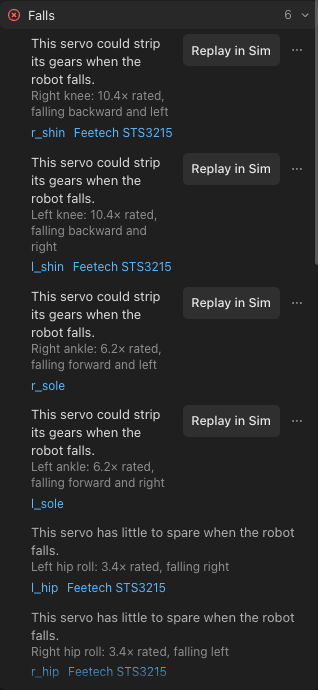
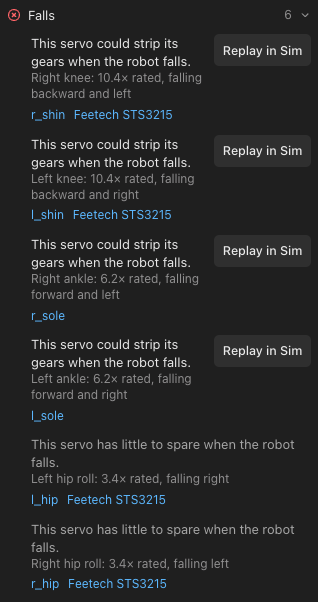
Recapture three help screenshots that still showed the row ⋯ button
The review found three help screenshots that still showed the ⋯ button
this pull request removes from Build findings. They were
checks-rolled-back.png in calibrate-an-emulated-robot, falls.png in
check-what-a-fall-does-to-the-servos and misfit.png in try-a-case. Each is
recaptured from the same scene, so blocker and note rows show only their
fix button.

Section 11 now says a Case's note has the Finding menu. The Case's own row
in Checks has no right-click menu.

The four help articles that cover FindingRow.tsx, JointRow.tsx and the
Build guide were read against the new code. Their steps, labels and
screenshots still hold, so they are unchanged.

diff --git a/site/content/help/calibrate-an-emulated-robot.md b/site/content/help/calibrate-an-emulated-robot.md
@@ -45,11 +45,15 @@ covers:
   - src/utils/engineeringSimModel.ts
 ---
 
-When you calibrate a robot, Basecase uses a camera to find each joint's zero and direction, then fits a model to each emulated servo. After that, simulation and training move the way your servos do.
+Calibrating a robot makes simulation and training move the way your servos do. Basecase uses a camera to find each joint's zero and direction, then fits a model to each emulated servo.
 
 Calibration works on the emulated robot and hasn't logged a real servo. Basecase fits each joint against the servo and variant it uses, and the emulated servo stands in for that part.
 
-The STS3215 C001 and XL330 start from a measured catalog model. Every other Feetech and Dynamixel servo starts from an estimate, scaled from its stall torque, speed and volts. PWM servos such as the DS3218 can't answer on the bus, so Calibrate skips them and their rows read **No reply**.
+The STS3215 C001 and XL330 start from a measured catalog model. Every other Feetech and Dynamixel servo starts from an estimate, scaled from its stall torque, speed and volts.
+
+**Note:** PWM servos such as the DS3218 can't answer on the bus. Calibrate skips them, and their rows read **No reply**.
+
+To calibrate a robot:
 
 1. Connect the emulated robot from the scene you want to calibrate. For steps, see [Connect an emulated robot](/help/connect-an-emulated-robot).
 2. Under **Ladder**, click **Set Up**.
@@ -58,13 +62,13 @@ The STS3215 C001 and XL330 start from a measured catalog model. Every other Feet
 
 ![Operate in Test, with Calibrate Servos above the emulated servos](/help/calibrate-an-emulated-robot/test.png)
 
-Basecase first wiggles each joint whose zero and direction it has never found. Each joint moves on its own for about 4 seconds while a camera watches it, and Basecase writes what it finds to the robot.
+First, Basecase wiggles each joint whose zero and direction it has never found. Each joint moves on its own for about 4 seconds while a camera watches, and Basecase writes what it finds to the robot.
 
 ![The Shoulder wiggling in Operate while Calibrate Servos watches it, with the measured robot drawn in blue](/help/calibrate-an-emulated-robot/wiggle.png)
 
 Next, all the joints move together through a slow bench sequence for about 18 seconds. Then Basecase fits each servo, one joint at a time.
 
-5. Read each joint's row under **Emulated servos**. The row shows the joint's name, bus ID, position and temperature. **Measured** beside the name means the simulation now runs on the fit, and the version in use appears under the name, after any other verdict.
+5. Read each joint's row under **Emulated servos**. The row shows the joint's name, bus ID, position and temperature. **Measured** beside the name means the simulation now runs on the fit. The version in use appears under the name, after any other verdict.
 
 The **Pose** tab marks the same joints **Measured**.
 
@@ -83,7 +87,9 @@ The light line shows what the servo did. The gray line is the simulation on the 
 
 To see what an older version would do before you roll back, choose it in the same menu. Basecase redraws the blue line for that version.
 
-You can also find **Calibrate Servos** in [[⌘K]]. It appears there only in **Test** with the motors running, and only in the scene you connected the robot from. Once a scene has calibrations, Operate lists its joints with their verdicts before you connect.
+You can also find **Calibrate Servos** in [[⌘K]]. It appears there only in **Test** with the motors running, and only in the scene you connected the robot from.
+
+Once a scene has calibrations, Operate lists its joints with their verdicts before you connect.
 
 ## Verdicts
 
@@ -99,27 +105,34 @@ A joint with no version in use shows **Preset**. **Roll Back** steps back one me
 
 A joint's zero is the servo reading where the joint sits at 0°. Its direction says which way the reading grows.
 
-Both can be off in ways the servo can't report. For example, a horn pressed on one tooth off on a 25-tooth spline sits 14.4° from the joint's 0°. A servo mounted reversed turns the joint the wrong way while its own reading agrees, so the bench sequence can't catch it.
+Both can be off in ways the servo can't report. For example:
 
-While a joint wiggles, it steps 0.1 rad one way, then 0.1 rad the other way, and back. Basecase draws the robot's outline from your CAD for both directions and for every zero within 20°, then keeps the one that matches the camera. It checks the joints nearest the base first.
+- A horn pressed on one tooth off on a 25-tooth spline sits 14.4° from the joint's 0°.
+- A servo mounted reversed turns the joint the wrong way while its own reading agrees. The bench sequence can't catch this.
 
-- When a joint's zero changes, Basecase saves it as a new version, marked **Measured**, before the bench sequence starts. The robot stops, then starts **Test** again on the new zero.
+While a joint wiggles, it steps 0.1 rad one way, then 0.1 rad the other way, and back. Basecase draws the robot's outline from your CAD for both directions and for every zero within 20°, then keeps the one that matches the camera. It starts with the joints nearest the base.
+
+- If a joint's zero changes, Basecase saves it as a new version, marked **Measured**, before the bench sequence starts. The robot stops, then starts **Test** again on the new zero.
 - If a joint's zero already matches the camera, Basecase records nothing for it.
 - If the camera can't see a joint move, the joint reads **Can’t tell** and keeps its zero. This happens with a joint hidden behind the robot's body, or a round wrist rolling on its own axis.
 
-The camera is your scene's first camera view. If you haven't placed one, Basecase uses the framed scene. The emulated robot has no camera plugged in, so Basecase draws that view at the servos' true angles. It also gives each emulated servo its own hidden offset, and mounts some of them reversed.
+The camera is your scene's first camera view. If you haven't placed one, Basecase uses the framed scene.
+
+The emulated robot has no camera plugged in, so Basecase draws that view at the servos' true angles. It also gives each emulated servo its own hidden offset, and mounts some of them reversed.
 
 **Roll Back** undoes a zero the same way it undoes any fit, and Basecase updates the robot's calibration to match. If you roll a joint back past its first zero, it returns to the default.
 
 ## What the bench sequence does
 
-The bench sequence ramps every joint 0.25 rad each way at 0.12 rad/s, holding for 0.6 s at each end, for 9 seconds. Then it swings each joint through a 0.15 rad wave at 0.12 Hz for 9 more seconds.
+For the first 9 seconds, the bench sequence ramps every joint 0.25 rad each way at 0.12 rad/s and holds for 0.6 s at each end. For the next 9 seconds, it swings each joint through a 0.15 rad wave at 0.12 Hz.
 
 The sequence is slow because Test caps each joint at 0.5 rad/s. If the servo couldn't follow a move, the joint would read **Can’t tell**.
 
-Basecase fits the first half of each recording, then checks the fit against the second half. It fits the servo's gain, delay, damping, inertia, friction and torque limit, and keeps each value between a quarter and 4 times its starting value, or up to 8 times for the delay. In a run with three emulated STS3215 servos, all three read **Measured**, and each fit was 7 to 10% closer than the catalog model.
+Basecase fits the first half of each recording, then checks the fit against the second half. It fits the servo's gain, delay, damping, inertia, friction and torque limit. Each value stays between a quarter and 4 times its starting value, or up to 8 times for the delay.
 
-If the robot leaves **Test** or faults during the run, Basecase records nothing. A message under the servo count tells you why.
+In a run with three emulated STS3215 servos, all three read **Measured**, and each fit was 7 to 10% closer than the catalog model.
+
+If the robot leaves **Test** or faults during the run, Basecase records nothing, and a message under the servo count tells you why.
 
 Replays use the latest bench run, which Basecase keeps until it reloads. After a reload, the verdicts and versions stay, and the replays come back the next time you run **Calibrate Servos**.
 

diff --git a/site/content/help/get-a-robot-ready-to-build.md b/site/content/help/get-a-robot-ready-to-build.md
@@ -36,49 +36,47 @@ covers:
   - src/three/viewport/checkDots.ts
 ---
 
-Before you print, buy and put together a robot, clear every problem the Build tab finds.
+The Build tab lists the problems in your robot. Clear every one before you print the parts, buy them, and put the robot together.
 
 1. Click **Build** at the top of the right panel.
-2. Look at the **Checks** header. It reads **Ready to build**, or shows how many problems are left, such as **3 to fix**.
+2. Look at the **Checks** header. It reads **Ready to build**, or it gives the number of problems left, such as **3 to fix**.
 3. Click a check with a red mark to open it.
-4. Under a problem, click a part's name to select that part on the canvas.
+4. Click a part's name under a problem to select that part on the canvas.
 5. Click **Fix** to have the agent fix the problem, or change the part yourself. Two checks work differently:
    - On **Strength**, **Fix** prints the part on its strongest face.
    - On **Falls**, **Replay in Sim** plays that joint's worst fall in the simulation.
-6. If the robot runs on a power supply instead of a battery, open **Servo voltage** and enter the supply's volts in **V**.
+6. If the robot runs on a power supply rather than a battery, open **Servo voltage** and enter the supply's volts in **V**.
 7. Open **Supply current** and enter the power supply's amps in **A**.
-8. Open **Current and runtime** to see how long the battery lasts, for example **about 2 h 08 min**. Once the agent runs the trained walk policy in the simulator, the section shows the average and peak amps from that walk and the joint that draws the most. Until then, and after you change the design, the runtime shows **(estimate)**.
-9. If the robot is an arm fixed in place, click **Payload** to see how much its hand holds at full reach and close in. While **Payload** is open, the canvas puts a dot at each spot the hand reaches, bluer where the hand lifts more.
-10. If the scene has Cases, **Checks** lists each one under its own name, with how many of its 20 runs passed. Click a Case to open it in Simulate.
+8. Open **Current and runtime** to see how long the battery lasts, for example **about 2 h 08 min**. Once the agent has run the trained walk policy in the simulator, this section shows the average and peak amps from that walk and names the joint that draws the most. The runtime shows **(estimate)** before that run and after each design change.
+9. If the robot is an arm fixed in place, click **Payload** to see how much its hand can hold at full reach and close in. While **Payload** is open, the canvas puts a dot on each spot the hand can reach, bluer where the hand lifts more.
+10. If the scene has Cases, **Checks** lists each one under its own name, with the number of its 20 runs that passed. Click a Case to open it in Simulate.
 11. Wait for the header to read **Ready to build**. Basecase reruns the checks after each change you make.
 
 ![The Build tab with every check passed and a $150 budget beside the total](/help/get-a-robot-ready-to-build/build-tab.png)
 
 ![An SO-101 arm inside a cloud of dots, with Payload open in Checks reading 1.26 kg at full reach, 1.88 kg close in](/help/get-a-robot-ready-to-build/payload.png)
 
-**Show Build** and **Run Checks** are in [[⌘K]] too.
+**Show Build** and **Run Checks** are also in [[⌘K]].
 
-The settings for this tab are in **Settings** ▸ **Build**. To open them, press [[⌘,]] or choose **Build Settings** in [[⌘K]]. There you set:
+Press [[⌘,]] or choose **Build Settings** in [[⌘K]] to open this tab's settings in **Settings** ▸ **Build**. From there you can:
 
-- Whether the agent fixes new blockers
-- Which currency prices show in
-- Whether the build guide updates on its own
+- Choose whether the agent fixes new blockers
+- Choose the currency for prices
+- Choose whether the build guide updates on its own
 
 ![**Settings** ▸ **Build** with Checks, Prices and Build guide](/help/get-a-robot-ready-to-build/build-settings.png)
 
-To set a problem aside, right-click its row and choose **Ignore**. To set aside every problem of that kind, choose **Ignore All ⟨kind⟩** below it. In that menu item, ⟨kind⟩ is the name of the problem's kind. **Ignored** lists everything you set aside. **Restore** brings a problem back.
+To set a problem aside, right-click its row and choose **Ignore**. To set aside every problem of that kind, choose **Ignore All ⟨kind⟩** below it. The menu shows the kind's name in place of ⟨kind⟩. Everything you set aside appears under **Ignored**, and **Restore** brings a problem back.
 
 ## Cases in Checks
 
-Checks runs each Case 20 times. Each run nudges friction, weight, servo strength and servo delay, and starts a box or anything else that moves up to 15 mm from its spot in the scene. A Case's color shows how many runs passed: green for 18 of 20 or more, amber for 10 to 17, and red for below 10.
+Checks runs each Case 20 times. Each run nudges friction, weight, servo strength, and servo delay, and starts a box, or anything else that moves, up to 15 mm from where it sits in the scene. A Case's color gives the share of runs that passed: green for 18 of 20 or more, amber for 10 to 17, and red for fewer than 10. Under each Case, Checks names its most common failure, such as Fell or Missed.
 
-Under each Case, Checks shows its most common failure, such as Fell or Missed.
+A Case with a skill you kept through **Train from Tries** runs that skill in place of its scripted motion. See [Train a policy from your tries](/help/train-a-policy-from-your-tries).
 
-If a Case has a skill you kept with **Train from Tries**, the Case runs that skill instead of its scripted motion. See [Train a policy from your tries](/help/train-a-policy-from-your-tries).
+A Case the robot can't run gets a red row naming the first thing in the way, such as driven wheels the Case needs or a fall on hold. [Try a Case](/help/try-a-case) lists every reason. If the robot lacks what the Case needs, the note on the row has **New Case**.
 
-If the robot can't run a Case, the Case gets a red row naming the first thing stopping it, such as driven wheels the Case needs or a fall on hold. [Try a Case](/help/try-a-case) lists every reason. If the robot is missing what the Case needs, the row's note offers **New Case**.
-
-Cases don't count toward Ready to build, and you can ignore one with a right-click like any other note. Checks reruns a Case only when the robot or the Case changes. To have the agent change the robot until a red or amber Case passes, see [Make a Case pass with the agent](/help/make-a-case-pass-with-the-agent).
+Cases don't count toward Ready to build. Right-click one to ignore it, as you would any other note. Checks skips rerunning a Case until the robot or the Case changes. To have the agent change the robot until a red or amber Case passes, see [Make a Case pass with the agent](/help/make-a-case-pass-with-the-agent).
 
 ![Checks on a rover with Reach a Spot passing 20 of 20](/help/get-a-robot-ready-to-build/cases-in-checks.png)
 
@@ -86,6 +84,6 @@ Cases don't count toward Ready to build, and you can ignore one with a right-cli
 
 ![Reach a Spot open in Simulate after clicking its row, with a green check beside its name](/help/get-a-robot-ready-to-build/case-in-simulate.png)
 
-In Simulate, the icon beside a Case's name shows the status of its row. Click the icon to go back to the row.
+In Simulate, the icon beside a Case's name shows the status of its row in Checks. Click the icon to return to that row.
 
-To learn why each check exists, see [The path from design to build](/help/from-design-to-build). Next, [price the parts and set a budget](/help/price-the-parts-and-set-a-budget).
+[The path from design to build](/help/from-design-to-build) explains why each check exists. Next, [price the parts and set a budget](/help/price-the-parts-and-set-a-budget).

diff --git a/site/content/help/checks-and-blockers.md b/site/content/help/checks-and-blockers.md
@@ -30,36 +30,38 @@ covers:
   - src/components/settings/BuildPane.tsx
 ---
 
-Only the Checks in the Build tab decide whether a design is ready to build. They measure the scene itself, and what anyone says about the design doesn't change the result.
+The Checks in the Build tab decide whether a design is ready to build. They measure the scene itself, so a claim about the design doesn't change the result.
 
 ![The Checks list for a single cube, every check green and Ready to build in the header](/help/get-a-robot-ready-to-build/build-tab.png)
 
 ## Where the verdict comes from
 
-Checks run automatically about 1.5 seconds after your last change. While they run, the header reads **Checking…**. When they finish, it reads **Ready to build** or shows how many problems you have left to fix.
+Checks run on their own about 1.5 seconds after your last change. The header reads **Checking…** as they run, then **Ready to build** or the number of problems left to fix.
 
-Basecase does the heavy measuring in the background, so you can keep working. On a 225-part robot, the verdict arrives about 5 seconds after the edit.
+The heavy measuring runs in the background, so you can keep working. On a 225-part robot, you get the verdict about 5 seconds after an edit.
 
-Every problem is either a **blocker** or a **note**. One blocker is enough to keep a design from being ready. A note turns a check amber and tells you something about the build, such as the order the screws go in. Notes never change the verdict.
+Each problem is either a **blocker** or a **note**. One blocker is enough to keep a design from being ready. A note turns its check amber and tells you something about the build, like the order the screws go in, but it doesn't change the verdict.
 
-If a check stops on an error or runs out of time, it counts as a blocker. The header won't keep showing an old “Ready to build” while a check is unfinished.
+A check that stops on an error or runs out of time counts as a blocker. The header won't show an old “Ready to build” while a check is unfinished.
 
 ## Why the agent's word doesn't count
 
-Nothing the agent writes changes the verdict. If it tells you a servo is strong enough, Servo torque still measures the load at a 30° crouch.
+If the agent tells you a servo is strong enough, Servo torque goes on measuring the load at a 30° crouch.
 
-The agent sees the same problems you do, and it hears about new blockers after each change. To have it try to fix them, turn on **Have the agent fix new blockers** in **Settings** ▸ **Build**. It makes up to 2 follow-ups per message. Each follow-up reads like "Fix what the last change added: 2 problems.", with the problems quoted from **Checks**. If the agent thinks a check is wrong, it can dispute it. Its reason appears on the row, and the blocker still counts.
+The agent sees the same problems you do, and it hears about any new blockers after each change. To have it try to fix them, turn on **Have the agent fix new blockers** in **Settings** ▸ **Build**. The agent makes up to 2 follow-ups per message. Each one reads like "Fix what the last change added: 2 problems.", with the problems quoted from **Checks**.
+
+If the agent thinks a check is wrong, it can dispute it. Its reason shows on the row, and the blocker keeps counting.
 
 ## Only you can set a blocker aside
 
-To drop a single problem, right-click its row and choose **Ignore**. To drop every problem of that kind, choose **Ignore All ⟨kind⟩**, named after the kind of problem. This also covers problems on parts you haven't made yet.
+To set one problem aside, right-click its row and choose **Ignore**. To ignore every problem of that kind, including problems on parts you add later, choose **Ignore All ⟨kind⟩**, where ⟨kind⟩ is the name of the problem's kind.
 
-An ignored problem stays ignored when the parts change, because the decision was yours. The agent sees what you ignored and leaves it alone. Everything you've set aside is listed in **Ignored**, under the list, and you can put any of it back from there.
+An ignored problem stays ignored when the parts change, because you made that call. The agent sees what you ignored and leaves those problems alone. Everything you've set aside is in **Ignored**, below the list, and you can put any of it back from there.
 
 ## What Ready to build doesn't promise
 
 Checks measure the design as you modeled it. A strap or zip tie you'll add by hand isn't in the model, so its row is a note for you to check yourself.
 
-Range of motion samples each joint every 15°, so a clash thinner than one step can fall between samples. Peak torque waits for a trained walk policy, and Falls waits for the agent to tip the robot over. Prices are estimates until you add the ones you see, or a print service quotes the printed parts.
+Range of motion samples each joint every 15°, and a clash thinner than one step can fall between samples. Peak torque waits for a trained walk policy, and Falls waits for the agent to tip the robot over. Prices stay estimates until you add the prices you see or a print service quotes the printed parts.
 
-[Build tab checks](/help/build-checks) lists every check and what makes it fail.
+The full list of checks, with what makes each one fail, is in [Build tab checks](/help/build-checks).

diff --git a/site/content/help/troubleshoot-build-check-blocks-ready-to-build.md b/site/content/help/troubleshoot-build-check-blocks-ready-to-build.md
@@ -30,11 +30,11 @@ covers:
   - src/components/settings/BuildPane.tsx
 ---
 
-The Checks header shows Ready to build only when no check holds a blocker. Until then, it shows a count of what's left to fix.
+The Checks header shows Ready to build only when no check holds a blocker. Until then, it shows a count of what's left to fix. If your design isn't passing, find the case below that matches what you see.
 
 ## The header still shows a count after you edit
 
-At least one check still holds a blocker, often a check you haven't opened.
+At least one check still holds a blocker, often one you haven't opened.
 
 1. Click **Build** at the top of the right panel.
 2. Open the check at the top of **Checks**. Basecase lists the worst ones first.
@@ -46,7 +46,7 @@ You're done when the header reads **Ready to build** and the red dot on the **Bu
 
 ## “Some checks didn’t finish, so this answer isn’t complete.”
 
-A check hit its time limit or ran into an error and stopped. Basecase counts that as a blocker, so a design never passes on a run that didn't finish.
+A check stopped because it hit its time limit or ran into an error. Basecase counts that as a blocker, so a design never passes on a run that didn't finish.
 
 1. Press [[⌘K]] and choose **Run Checks**.
 2. If the message is still there, quit Basecase and open it again.
@@ -63,7 +63,7 @@ The estimated total is over your budget. Basecase counts lines marked ≈ at the
 3. Click a line's quantity, then type how many you already own in **On hand**. Parts you own cost nothing.
 4. Swap out expensive parts, or raise the budget in the field next to the total.
 
-Budget turns amber above 90% of the budget and red when the total goes over it. For the full steps, see [Price the parts and set a budget](/help/price-the-parts-and-set-a-budget).
+Budget turns amber above 90% of the budget, and red when the total goes over it. For the full steps, see [Price the parts and set a budget](/help/price-the-parts-and-set-a-budget).
 
 ## “This servo could strip its gears when the robot falls.”
 
@@ -77,7 +77,7 @@ You're done when **Falls** in Checks no longer shows a red mark.
 
 ## Servo bus is red
 
-Your build has at least one bus adapter, but none of them takes these servos' connector. You'd see this with DYNAMIXEL X servos on a Waveshare Bus Servo Adapter (A).
+Your build has at least one bus adapter, but none of them takes these servos' connector. For example, you'd see this with DYNAMIXEL X servos on a Waveshare Bus Servo Adapter (A).
 
 1. Open **Servo bus** in Checks. It names the adapter you need to add, for example **Add a JST EH 3-pin bus adapter for 2 servos.**
 2. Open **Parts** and place that adapter in the robot. For JST EH 3-pin, use the **ROBOTIS U2D2** or **ROBOTIS OpenRB-150**. For 5264 3-pin, use the **Waveshare Bus Servo Adapter (A)**.
@@ -86,18 +86,18 @@ You're done when **Servo bus** is no longer in the list.
 
 ## You know a blocker is wrong
 
-Checks see only what's modeled, so they miss things like a strap that holds a part. To ignore a blocker:
+Checks only see what's modeled, so they miss things like a strap that holds a part in place. To ignore a blocker:
 
 1. Right-click the problem's row.
 2. Choose **Ignore**.
 
 The problem moves to **Ignored**, below the list. To bring it back, click **Restore** there.
 
-Only you can ignore a blocker. The agent can tell you it disagrees, but it can't clear a blocker itself.
+**Note:** Only you can ignore a blocker. The agent can tell you it disagrees, but it can't clear a blocker itself.
 
 ## The agent keeps fixing new blockers on its own
 
-After each message, Basecase sends any new blockers to the agent, up to 2 times. In the chat, that reads "Fix what the last change added: 2 problems." over the problems. To turn this off:
+After each message, Basecase sends any new blockers to the agent, up to 2 times. In the chat, you'll see "Fix what the last change added: 2 problems." above the problems. To turn this off:
 
 1. Press [[⌘,]] and choose **Build**.
 2. Turn off **Have the agent fix new blockers**.

diff --git a/site/content/help/troubleshoot-emulated-robot.md b/site/content/help/troubleshoot-emulated-robot.md
@@ -27,11 +27,13 @@ covers:
   - hw/crates/robot-daemon/src/fault.rs
 ---
 
-Use the sections below if Connect is missing in Operate, the robot refuses a rung, a fault stops the motors, or Calibrate Servos doesn't show.
+Find the message or missing button you see in Operate below.
 
 ## Connect Emulated Robot is missing
 
-Operate shows "No robot" when the scene has no joint that moves. If the scene has more than 32 moving joints, Operate shows nothing to connect. Operate isn't available in the browser version of Basecase.
+If the scene has no joint that moves, Operate shows "No robot." If the scene has more than 32 moving joints, Operate shows nothing to connect.
+
+**Note:** Operate isn't available in the browser version of Basecase.
 
 To add a robot to the scene:
 
@@ -41,9 +43,9 @@ To add a robot to the scene:
 
 ## "Load a policy first"
 
-**Rehearse** and every rung above it need a trained policy. You see this message when the scene in front has no policy the robot can take.
+**Rehearse** and every rung above it need a trained policy. You'll see this message if the scene in front has no policy the robot can take.
 
-Basecase hands the robot the newest skill that's ready or the newest policy that's up to date. It skips:
+Basecase hands the robot the newest skill that's ready, or the newest policy that's up to date. It skips:
 
 - Policies marked **Out of date**. To fix one, see [Retrain an out-of-date policy](/help/retrain-an-out-of-date-policy).
 - Skills that replay an animation, because they have no policy to hand over.
@@ -56,7 +58,7 @@ To train a policy:
 
 ## "A fault is still active"
 
-The daemon shows "A fault is still active. Go back to Look and clear it first." when a fault has stopped the motors. The fault stays until you clear it.
+When a fault stops the motors, the daemon shows "A fault is still active. Go back to Look and clear it first." The fault stays until you clear it.
 
 1. Read the fault shown under the servo count, and fix the problem it names.
 2. Click **Look** under **Ladder**.
@@ -70,7 +72,7 @@ If the robot is an arm, you can click **Replay in Sim** under the fault to play 
 
 ## "The app stopped talking to the robot"
 
-The full message is "The app stopped talking to the robot, so the robot is holding still." It appears when the app misses its 100 ms check-in with the robot daemon, for example when the computer is under heavy load or goes to sleep.
+The full message is "The app stopped talking to the robot, so the robot is holding still." You'll see it when the app misses its 100 ms check-in with the robot daemon. This can happen when the computer is under heavy load or goes to sleep.
 
 1. Click **Look** under **Ladder**.
 2. If **Clear Fault** shows, click it.
@@ -79,7 +81,7 @@ The full message is "The app stopped talking to the robot, so the robot is holdi
 
 ## Calibrate Servos is missing
 
-**Calibrate Servos** appears in **Test** once "Motors running" shows. It appears only in the scene you connected the robot from.
+**Calibrate Servos** appears in **Test** once "Motors running" shows, and only in the scene you connected the robot from.
 
 1. Switch to the tab of the scene you connected from.
 2. Climb to **Test**, then wait for "Motors running".

diff --git a/site/content/help/point-the-agent-at-a-part.md b/site/content/help/point-the-agent-at-a-part.md
@@ -25,7 +25,7 @@ covers:
   - src/components/build/FindingRow.tsx
 ---
 
-The agent doesn't see what you've selected. To show it which part, area or message you mean, quote it or draw on it.
+The agent doesn't see what you've selected. To show it the part, area or message you mean, quote it or draw on it.
 
 - Quote a part
 - Draw on the canvas
@@ -35,11 +35,11 @@ The agent doesn't see what you've selected. To show it which part, area or messa
 
 1. Right-click the part on the canvas.
 2. Choose **Quote Part**.
-3. Type what you want to change, for example “Move this 10 mm forward”, then press [[↩]].
+3. Type what you want to change, for example “Move this 10 mm forward.” Then press [[↩]].
 
-Your message goes to the agent with the quote, which includes the part's name, id and position.
+The agent gets your message along with the quote, which includes the part's name, id and position.
 
-You can also find **Quote Part** in [[⌘K]] after you select the part.
+You can also select the part, then find **Quote Part** in [[⌘K]].
 
 ## Draw on the canvas
 
@@ -47,7 +47,7 @@ You can also find **Quote Part** in [[⌘K]] after you select the part.
 2. Draw around the area you mean. To tell your marks apart, pick another color from the bar.
 3. Click **Done**, then send your message.
 
-The agent reads the color of each mark and the parts it circles. Marks aren't parts, so they never show up in the bill of materials or in a print.
+The agent reads the color of each mark and the parts it circles. Marks aren't parts, so they never appear in the bill of materials or in a print.
 
 ## Quote a message
 

diff --git a/docs/guide/menus-and-shortcuts.md b/docs/guide/menus-and-shortcuts.md
@@ -16,7 +16,7 @@ Part of the Basecase guide. [AGENTS.md](../../AGENTS.md) holds the rules every c
   - **Empty canvas:** Add Part, Comment Here, Measure from Here, Add Reference Image, Sketch, Annotate, Import, Select All, camera views, Reset View, Add Camera View, Place on Map (desktop only, §12), Collapse / Expand Camera Views (while the scene has camera views), Show Grid, Show Map (checked while a placed map shows), Export STL, Delete Marks (with marks).
   - **Camera tile** (§8l): the camera's name heads the menu; Look Through, Rename, Lens ▸; stationary cameras add Use Current View and Delete.
   - **Case** (Cases view, §8h): Rename, then for the open Case Compare With ▸ (when another open scene's robot fits) and Export Case Mat (a ground Case, desktop only), then Delete.
-  - **Finding** (a blocker or note in the Build tab's Checks, §8b, Cases' rows included): Ignore, Ignore All ⟨kind⟩, Quote (desktop only).
+  - **Finding** (a blocker or note in the Build tab's Checks, §8b, a Case's note included): Ignore, Ignore All ⟨kind⟩, Quote (desktop only).
   - **Calibrated joint row** (Operate, §8k): the measured versions (`v1`, `v2`…, the drawn one checked), then Roll Back.
   - A row's own menu opens on right-click, never from a ⋯ button on the row, so every list reads the same. Buttons on a row are for its one main action (Fix, Restore, Calibrate).
   - Select All (⌘A) is in every menu. Like ⌘A and ⌘K, it skips hidden parts and hidden reference photos.
